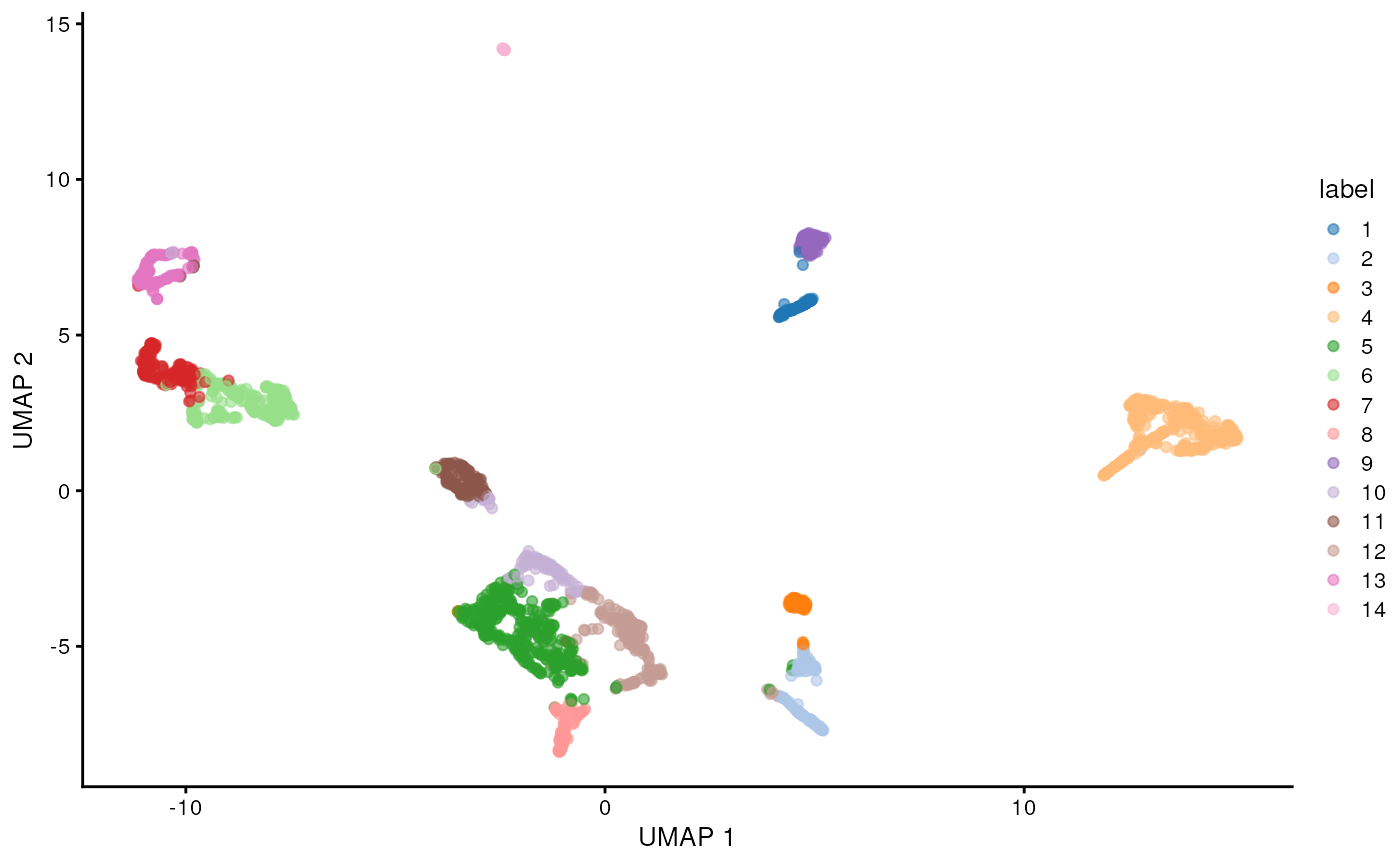
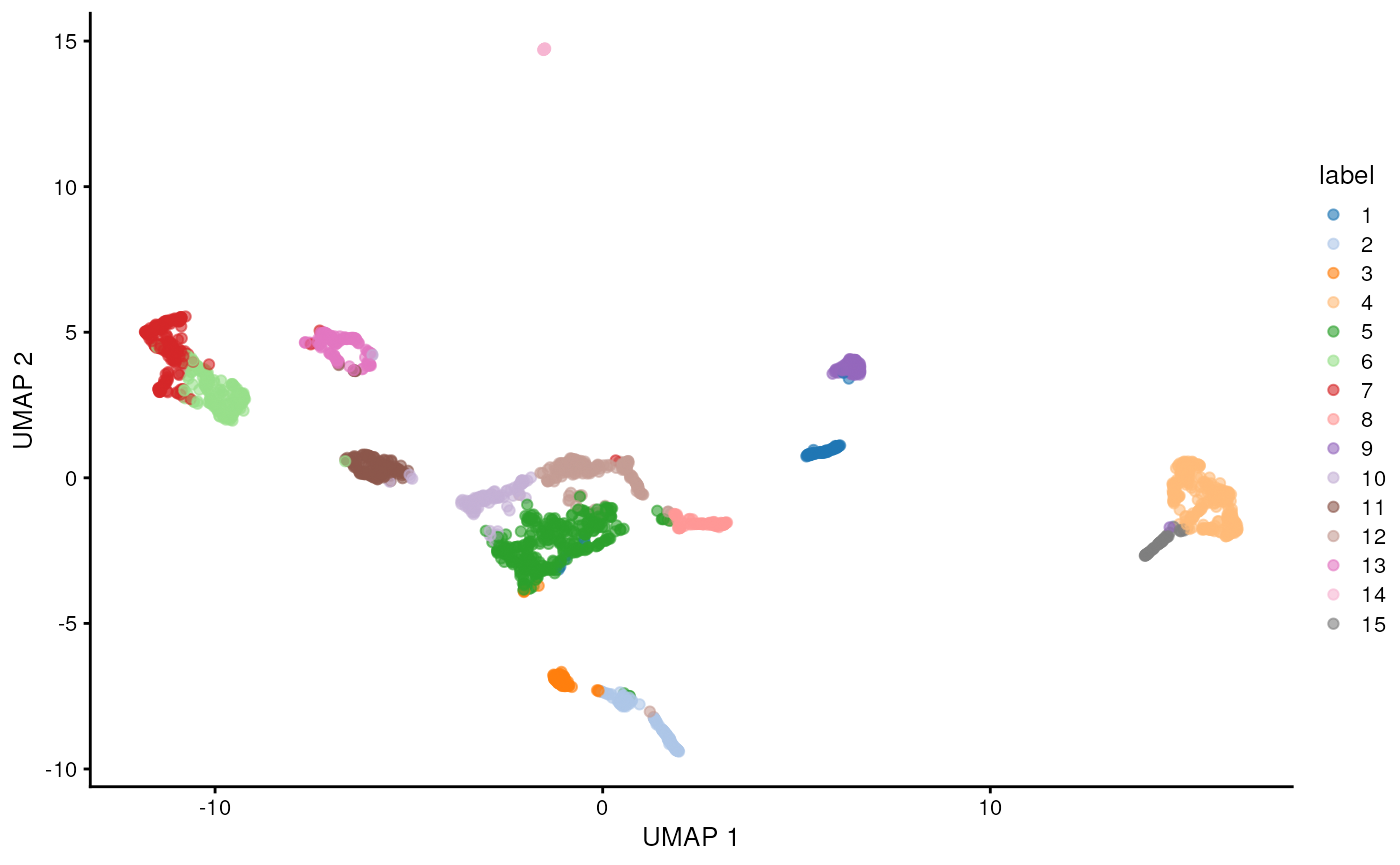
Deploying to gh-pages from @ Bioconductor/ISMB.OSCA@0b246f2e1655570af8a2fa0bf69b86dcd0bee068 🚀

diff --git a/articles/cell_type_annotation.html b/articles/cell_type_annotation.html
@@ -168,8 +168,8 @@ cell in our <code>SingleCellExperiment</code> object.</p>
 <span>                               BLUSPARAM <span class="op">=</span> <span class="fu"><a href="https://rdrr.io/pkg/bluster/man/NNGraphParam-class.html" class="external-link">NNGraphParam</a></span><span class="op">(</span>cluster.fun <span class="op">=</span> <span class="st">"louvain"</span><span class="op">)</span><span class="op">)</span></span>
 <span><span class="fu"><a href="https://rdrr.io/r/base/table.html" class="external-link">table</a></span><span class="op">(</span><span class="fu"><a href="https://rdrr.io/pkg/SingleCellExperiment/man/colLabels.html" class="external-link">colLabels</a></span><span class="op">(</span><span class="va">sce</span><span class="op">)</span><span class="op">)</span></span></code></pre></div>
 <pre><code><span><span class="co">## </span></span>
-<span><span class="co">##   1   2   3   4   5   6   7   8   9  10  11  12  13  14 </span></span>
-<span><span class="co">##  90 144  75 397 398 262 195  95 108 121 144 216 146  20</span></span></code></pre>
+<span><span class="co">##   1   2   3   4   5   6   7   8   9  10  11  12  13  14  15 </span></span>
+<span><span class="co">##  95 144  77 341 391 210 246  92 108 129 153 203 146  20  56</span></span></code></pre>
 <p>We assign the cluster assignments back into our
 <code>SingleCellExperiment</code> object as a <code>factor</code> in the
 column metadata. This allows us to conveniently visualize the
@@ -212,8 +212,8 @@ cluster when compared to another cluster.</p>
 <code class="sourceCode R"><span><span class="fu"><a href="https://rdrr.io/r/base/colnames.html" class="external-link">rownames</a></span><span class="op">(</span><span class="va">sce</span><span class="op">)</span> <span class="op">&lt;-</span> <span class="fu"><a href="https://rdrr.io/pkg/SummarizedExperiment/man/SummarizedExperiment-class.html" class="external-link">rowData</a></span><span class="op">(</span><span class="va">sce</span><span class="op">)</span><span class="op">$</span><span class="va">SYMBOL</span></span>
 <span><span class="va">markers</span> <span class="op">&lt;-</span> <span class="fu"><a href="https://rdrr.io/pkg/scran/man/findMarkers.html" class="external-link">findMarkers</a></span><span class="op">(</span><span class="va">sce</span>, test.type <span class="op">=</span> <span class="st">"wilcox"</span>, direction <span class="op">=</span> <span class="st">"up"</span>, lfc <span class="op">=</span> <span class="fl">1</span><span class="op">)</span></span>
 <span><span class="va">markers</span></span></code></pre></div>
-<pre><code><span><span class="co">## List of length 14</span></span>
-<span><span class="co">## names(14): 1 2 3 4 5 6 7 8 9 10 11 12 13 14</span></span></code></pre>
+<pre><code><span><span class="co">## List of length 15</span></span>
+<span><span class="co">## names(15): 1 2 3 4 5 6 7 8 9 10 11 12 13 14 15</span></span></code></pre>
 <p>The resulting object contains a sorted marker gene list for each
 cluster, in which the top genes are those that contribute the most to
 the separation of that cluster from mall other clusters.</p>
@@ -221,14 +221,14 @@ the separation of that cluster from mall other clusters.</p>
 cluster.</p>
 <div class="sourceCode" id="cb10"><pre class="downlit sourceCode r">
 <code class="sourceCode R"><span><span class="va">markers</span><span class="op">[[</span><span class="fl">1</span><span class="op">]</span><span class="op">]</span></span></code></pre></div>
-<pre><code><span><span class="co">## DataFrame with 29453 rows and 17 columns</span></span>
+<pre><code><span><span class="co">## DataFrame with 29453 rows and 18 columns</span></span>
 <span><span class="co">##                  Top     p.value         FDR summary.AUC     AUC.2     AUC.3</span></span>
 <span><span class="co">##            &lt;integer&gt;   &lt;numeric&gt;   &lt;numeric&gt;   &lt;numeric&gt; &lt;numeric&gt; &lt;numeric&gt;</span></span>
-<span><span class="co">## Igfbp2             1 4.56148e-71 7.07102e-68    0.997845  0.956790  0.987704</span></span>
-<span><span class="co">## Arl4c              1 7.07154e-90 6.94260e-86    0.998853  0.911111  0.992741</span></span>
-<span><span class="co">## Pitx2              1 2.89591e-80 9.47703e-77    0.952337  0.942361  0.778074</span></span>
-<span><span class="co">## Slc2a3             1 1.61926e-42 4.22053e-40    0.961489  0.892130  0.938667</span></span>
-<span><span class="co">## Cryab              1 4.61797e-73 9.06754e-70    0.958186  0.942284  0.910519</span></span>
+<span><span class="co">## Arl4c              1 2.65826e-83 3.91468e-79    0.998796  0.905482  0.990157</span></span>
+<span><span class="co">## Pitx2              1 2.12479e-70 6.25814e-67    0.943973  0.932968  0.764320</span></span>
+<span><span class="co">## Slc2a3             1 4.05884e-43 1.10690e-40    0.961506  0.872515  0.918113</span></span>
+<span><span class="co">## Cryab              1 1.11310e-60 8.62742e-58    0.923866  0.911915  0.880519</span></span>
+<span><span class="co">## Hand1              1 4.24304e-76 1.56213e-72    0.999568  0.989766  0.699658</span></span>
 <span><span class="co">## ...              ...         ...         ...         ...       ...       ...</span></span>
 <span><span class="co">## AC125149.2     29448           1           1           0         0         0</span></span>
 <span><span class="co">## AC125149.4     29449           1           1           0         0         0</span></span>
@@ -237,30 +237,30 @@ cluster.</p>
 <span><span class="co">## Vmn2r122       29453           1           1           0         0         0</span></span>
 <span><span class="co">##                AUC.4     AUC.5     AUC.6     AUC.7     AUC.8     AUC.9</span></span>
 <span><span class="co">##            &lt;numeric&gt; &lt;numeric&gt; &lt;numeric&gt; &lt;numeric&gt; &lt;numeric&gt; &lt;numeric&gt;</span></span>
-<span><span class="co">## Igfbp2      0.997845  0.964238  0.807082  0.555897  0.952749  0.370062</span></span>
-<span><span class="co">## Arl4c       0.998853  0.676884  0.924300  0.845584  0.944561  0.874486</span></span>
-<span><span class="co">## Pitx2       0.952337  0.812591  0.951442  0.948433  0.760234  0.424897</span></span>
-<span><span class="co">## Slc2a3      0.961489  0.881854  0.740288  0.661254  0.887953  0.895885</span></span>
-<span><span class="co">## Cryab       0.958186  0.953210  0.962511  0.962849  0.263977  0.352366</span></span>
+<span><span class="co">## Arl4c       0.998796  0.663158  0.907068  0.858451  0.944050  0.863840</span></span>
+<span><span class="co">## Pitx2       0.943973  0.794346  0.943208  0.939538  0.763387  0.406725</span></span>
+<span><span class="co">## Slc2a3      0.961506  0.862781  0.672632  0.680359  0.871739  0.874659</span></span>
+<span><span class="co">## Cryab       0.928261  0.923866  0.932481  0.932777  0.228833  0.334600</span></span>
+<span><span class="co">## Hand1       0.999568  0.868704  0.999599  0.999743  0.894165  0.209649</span></span>
 <span><span class="co">## ...              ...       ...       ...       ...       ...       ...</span></span>
 <span><span class="co">## AC125149.2         0         0         0         0         0         0</span></span>
 <span><span class="co">## AC125149.4         0         0         0         0         0         0</span></span>
 <span><span class="co">## AC234645.1         0         0         0         0         0         0</span></span>
 <span><span class="co">## AC168977.2         0         0         0         0         0         0</span></span>
 <span><span class="co">## Vmn2r122           0         0         0         0         0         0</span></span>
-<span><span class="co">##               AUC.10    AUC.11    AUC.12    AUC.13      AUC.14</span></span>
-<span><span class="co">##            &lt;numeric&gt; &lt;numeric&gt; &lt;numeric&gt; &lt;numeric&gt;   &lt;numeric&gt;</span></span>
-<span><span class="co">## Igfbp2      0.983930  0.856867  0.936728  0.649848 0.209444444</span></span>
-<span><span class="co">## Arl4c       0.982369  0.944059  0.923868  0.739878 0.096666667</span></span>
-<span><span class="co">## Pitx2       0.937006  0.952006  0.880916  0.853196 0.938888889</span></span>
-<span><span class="co">## Slc2a3      0.929385  0.367747  0.961111  0.301522 0.000555556</span></span>
-<span><span class="co">## Cryab       0.957668  0.958642  0.955453  0.918113 0.463333333</span></span>
-<span><span class="co">## ...              ...       ...       ...       ...         ...</span></span>
-<span><span class="co">## AC125149.2         0         0         0         0           0</span></span>
-<span><span class="co">## AC125149.4         0         0         0         0           0</span></span>
-<span><span class="co">## AC234645.1         0         0         0         0           0</span></span>
-<span><span class="co">## AC168977.2         0         0         0         0           0</span></span>
-<span><span class="co">## Vmn2r122           0         0         0         0           0</span></span></code></pre>
+<span><span class="co">##               AUC.10    AUC.11    AUC.12    AUC.13      AUC.14    AUC.15</span></span>
+<span><span class="co">##            &lt;numeric&gt; &lt;numeric&gt; &lt;numeric&gt; &lt;numeric&gt;   &lt;numeric&gt; &lt;numeric&gt;</span></span>
+<span><span class="co">## Arl4c       0.978458  0.938424  0.914752  0.727181 0.092631579  0.997368</span></span>
+<span><span class="co">## Pitx2       0.925255  0.943584  0.865388  0.844484 0.928947368  0.942105</span></span>
+<span><span class="co">## Slc2a3      0.937169  0.368903  0.945968  0.287671 0.000526316  0.877820</span></span>
+<span><span class="co">## Cryab       0.924276  0.929068  0.927975  0.887383 0.441052632  0.926692</span></span>
+<span><span class="co">## Hand1       0.965973  0.999037  0.999533  0.996035 0.150000000  0.999812</span></span>
+<span><span class="co">## ...              ...       ...       ...       ...         ...       ...</span></span>
+<span><span class="co">## AC125149.2         0         0         0         0           0         0</span></span>
+<span><span class="co">## AC125149.4         0         0         0         0           0         0</span></span>
+<span><span class="co">## AC234645.1         0         0         0         0           0         0</span></span>
+<span><span class="co">## AC168977.2         0         0         0         0           0         0</span></span>
+<span><span class="co">## Vmn2r122           0         0         0         0           0         0</span></span></code></pre>
 <p>The <code>Top</code> field provides the the minimum rank across all
 pairwise comparisons. The <code>p.value</code> field provides the
 combined <em>p</em>-value across all comparisons, and the

diff --git a/index.html b/index.html
@@ -201,8 +201,7 @@
 <div class="license">
 <h2 data-toc-skip>License</h2>
 <ul class="list-unstyled">
-<li><a href="LICENSE.html">Full license</a></li>
-<li><small><a href="https://www.r-project.org/Licenses/Artistic-2.0" class="external-link">Artistic-2.0</a></small></li>
+<li><a href="https://www.r-project.org/Licenses/Artistic-2.0" class="external-link">Artistic-2.0</a></li>
 </ul>
 </div>
 
